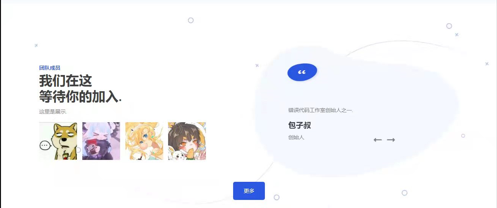
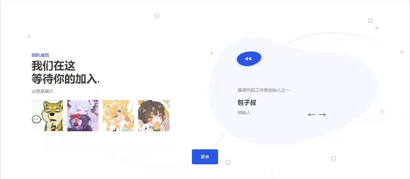
GitBook: [#8] No subject

diff --git a/README.md b/README.md
@@ -9,5 +9,3 @@ description: 353.ee
 ## 工作室成员
 
 ![成员](.gitbook/assets/成员.png)
-
-## 现在等待你的加入
